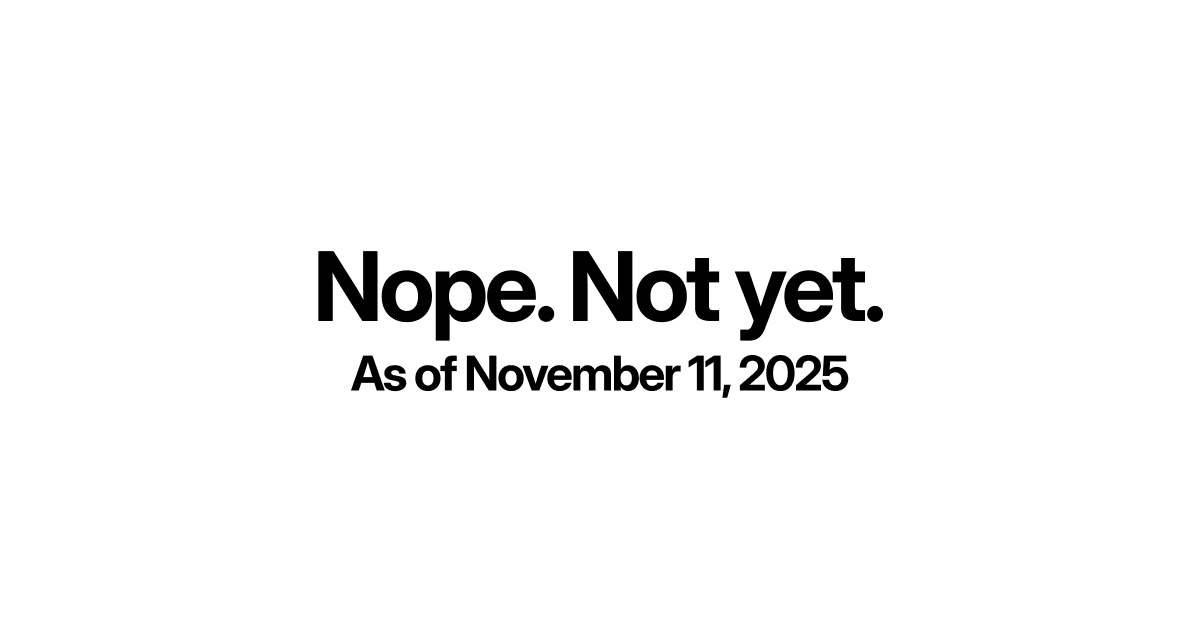
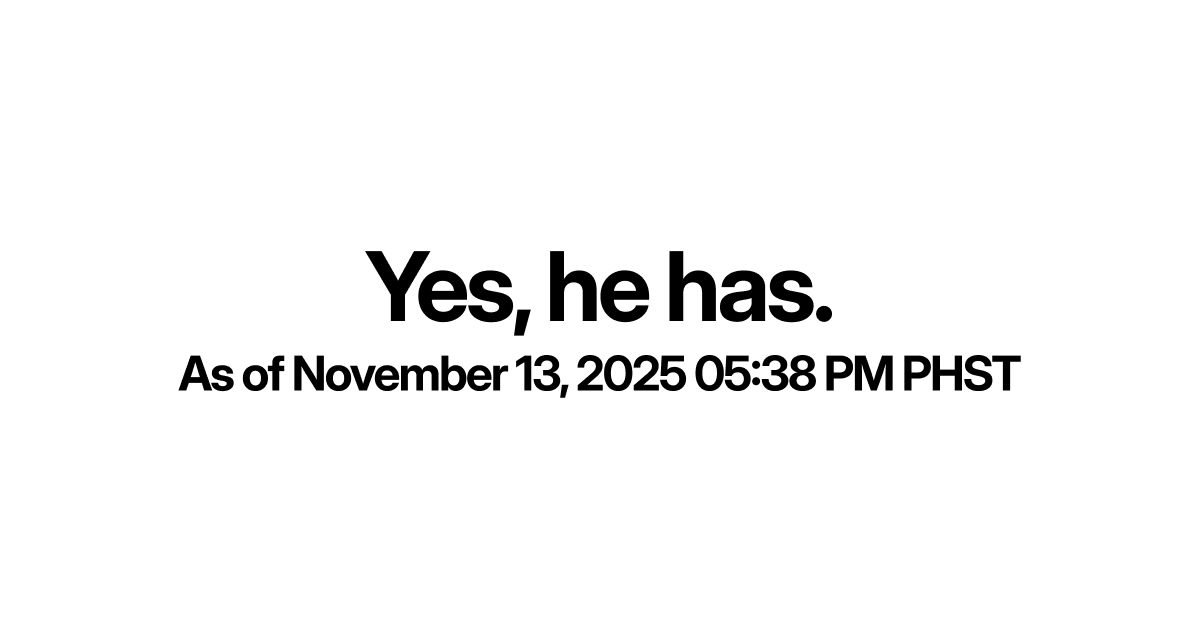
fix: update index.html with latest news and correct date

Changed region(s): [[0.1542, 0.3921, 0.8633, 0.6333]]

diff --git a/src/index.html b/src/index.html
@@ -32,9 +32,9 @@
 <body>
   <header class="headline">
     <h1 class="visually-hidden">Has Enrile died yet?</h1>
-    <p class="answer">No.</p>
-    <p class="meta">As of <time datetime="2025-05-05">November 11, 2025</time>.</p>
-    <p class="meta">[NEWS]: <a href="https://newsinfo.inquirer.net/2138159/estradas-source-says-enrile-at-icu-due-to-pneumonia-has-slim-chances-of-surviving">Estrada source: Enrile in ICU with pneumonia; ‘slim chances of surviving’</a></p>
+    <p class="answer">Yes.</p>
+    <p class="meta">As of <time datetime="2025-05-05">November 13, 2025 05:38 PM PHST</time>.</p>
+    <p class="meta">[INQUIRER.NET]: <a href="https://newsinfo.inquirer.net/2138203/juan-ponce-enrile-dies-at-101">Juan Ponce Enrile dies at 101</a></p>
   </header>
   <section class="timeline" aria-labelledby="timeline-heading">
     <h2 id="timeline-heading">Enrile has outlived…</h2>
